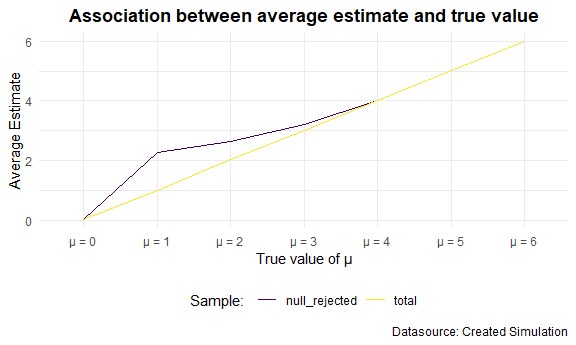
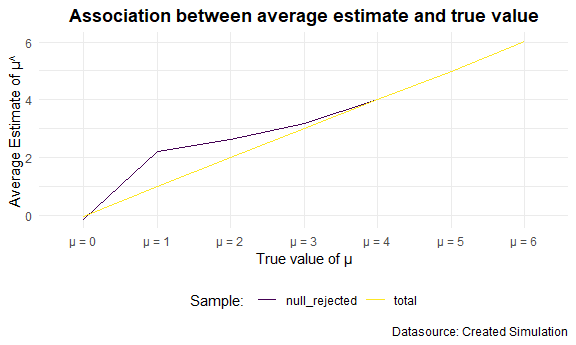
14th - added comment for last plot, made minor modification to plots

diff --git a/p8105_hw5_kl3069.md b/p8105_hw5_kl3069.md
@@ -1,7 +1,7 @@
 P8105 Homework 5
 ================
 Kyung Suk Lee
-2020-11-11
+2020-11-16
 
   - [Problem 1](#problem-1)
       - [1-1) Description of the raw data](#description-of-the-raw-data)
@@ -302,16 +302,16 @@ sim_results %>%
     # A tibble: 5,000 x 2
        estimate p.value
           <dbl>   <dbl>
-     1   -1.23   0.0883
-     2   -1.25   0.165 
-     3    0.753  0.501 
-     4    1.40   0.139 
-     5   -1.79   0.0296
-     6   -0.474  0.556 
-     7   -1.43   0.125 
-     8    0.484  0.566 
-     9    0.709  0.470 
-    10    0.712  0.399 
+     1    0.608  0.433 
+     2   -0.393  0.630 
+     3   -0.342  0.715 
+     4   -0.136  0.881 
+     5    0.367  0.672 
+     6   -1.40   0.169 
+     7   -2.12   0.0288
+     8    1.83   0.0987
+     9    0.310  0.715 
+    10   -0.179  0.829 
     # ... with 4,990 more rows
 
 ## 3-3) Repeat mu = 1 to 6
@@ -333,16 +333,16 @@ multi_sim_results %>%
     # A tibble: 35,000 x 3
        multi_mu estimate p.value
           <dbl>    <dbl>   <dbl>
-     1        0  -1.67   0.0506 
-     2        0   0.408  0.644  
-     3        0   1.87   0.00953
-     4        0   1.47   0.113  
-     5        0  -0.883  0.353  
-     6        0  -0.0213 0.980  
-     7        0   0.0308 0.977  
-     8        0  -0.604  0.467  
-     9        0   0.271  0.753  
-    10        0   0.0436 0.963  
+     1        0  0.647     0.563
+     2        0  0.935     0.244
+     3        0  1.16      0.202
+     4        0 -1.15      0.249
+     5        0 -0.719     0.393
+     6        0 -0.176     0.842
+     7        0  0.567     0.439
+     8        0  0.630     0.478
+     9        0 -1.02      0.282
+    10        0 -0.00304   0.997
     # ... with 34,990 more rows
 
 ## 3-4) Association between effect size and power
@@ -369,19 +369,19 @@ multi_sim_results %>%
 <img src="p8105_hw5_kl3069_files/figure-gfm/unnamed-chunk-11-1.png" width="90%" />
 
   - **Some comments on plot**: As can be seen from the above plot, as
-    the true value of mu increases from 0 to 6, the proportion of times
-    the null was rejected **(p-value less than 0.05)** or the power of
-    the test increases. Thus, there is a positive relationship between
-    effect size and power.
+    the true value of mu (μ) increases from 0 to 6, the proportion of
+    times the null was rejected **(p-value less than or equal to 0.05)**
+    or the power of the test increases. Thus, there is a positive
+    relationship between effect size and power.
 
 ## 3-5) Association between average estimate of μ^ and the true value of μ
 
 ``` r
 total_samples = 
   multi_sim_results %>% 
-    select(multi_mu, estimate, p.value) %>% 
-    group_by(multi_mu) %>%
-    summarize(total = mean(estimate, na.rm = TRUE))
+  select(multi_mu, estimate, p.value) %>% 
+  group_by(multi_mu) %>%
+  summarize(total = mean(estimate, na.rm = TRUE))
 
 null_rejected_samples = 
   multi_sim_results %>% 
@@ -402,12 +402,27 @@ left_join(total_samples, null_rejected_samples, by = "multi_mu") %>%
   labs(
       title = "Association between average estimate and true value",
       x = "True value of μ",
-      y = "Average Estimate",
+      y = "Average Estimate of μ^",
       caption = "Datasource: Created Simulation",
       color = "Sample: ") +
-  theme(plot.title = element_text(face="bold",
-                                  hjust=0.5,
-                                  lineheight=1.2))
+  theme(plot.title = element_text(face = "bold",
+                                  hjust = 0.5,
+                                  lineheight = 1.2))
 ```
 
 <img src="p8105_hw5_kl3069_files/figure-gfm/unnamed-chunk-12-1.png" width="90%" />
+
+  - **Some comments on plot**: As can be seen from the above plot, in
+    general, as the true value of μ increases from 0 to 6, the average
+    estimate of μ^ also increases for both total samples and samples for
+    which the null was rejected. For total samples, the average estimate
+    of μ^ is almost identical (or equal) to true value of μ. However, in
+    the case of samples for which the null was rejected, we can see a
+    slight deviation of average estimate of μ^ when the true value of μ
+    is from 1 to 3. As we have seen from the above plot showing the
+    proportion of times the null was rejected (the power of the test)
+    for different true value of μ, such deviation could be resulted by
+    lower number of times the null was rejected out of 5000 total
+    samples when the true value of μ is from 1 to 3, causing more
+    variability for average estimate of μ^, compared to when true value
+    of μ is from 4 to 6.
